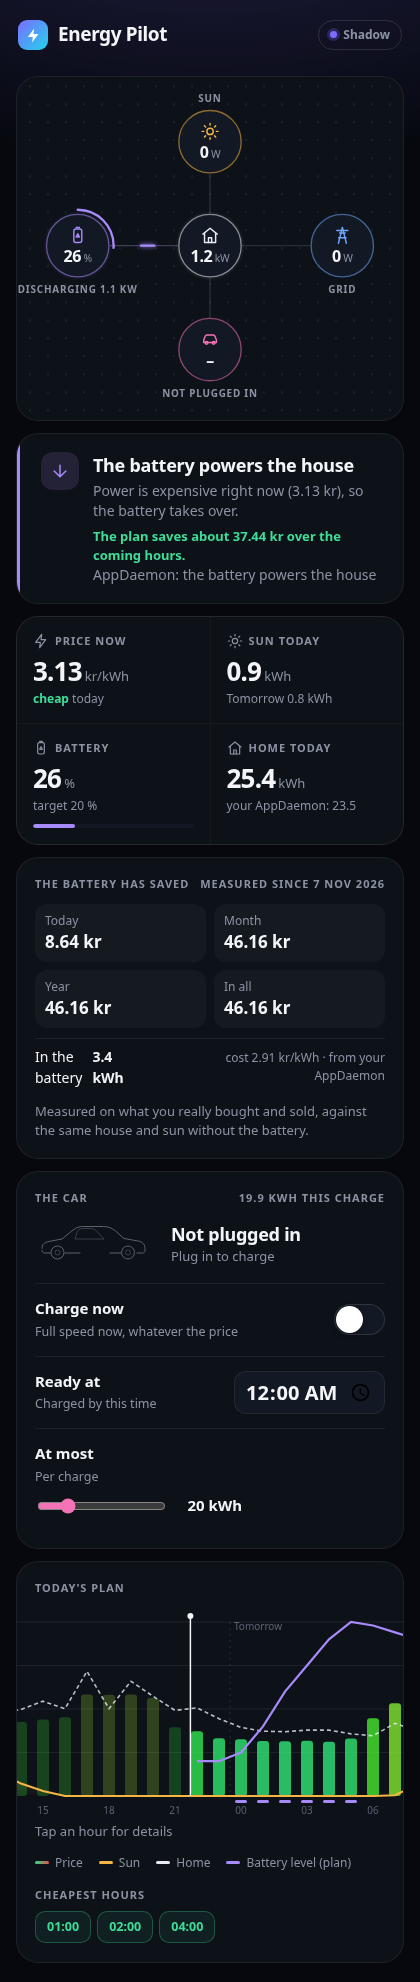
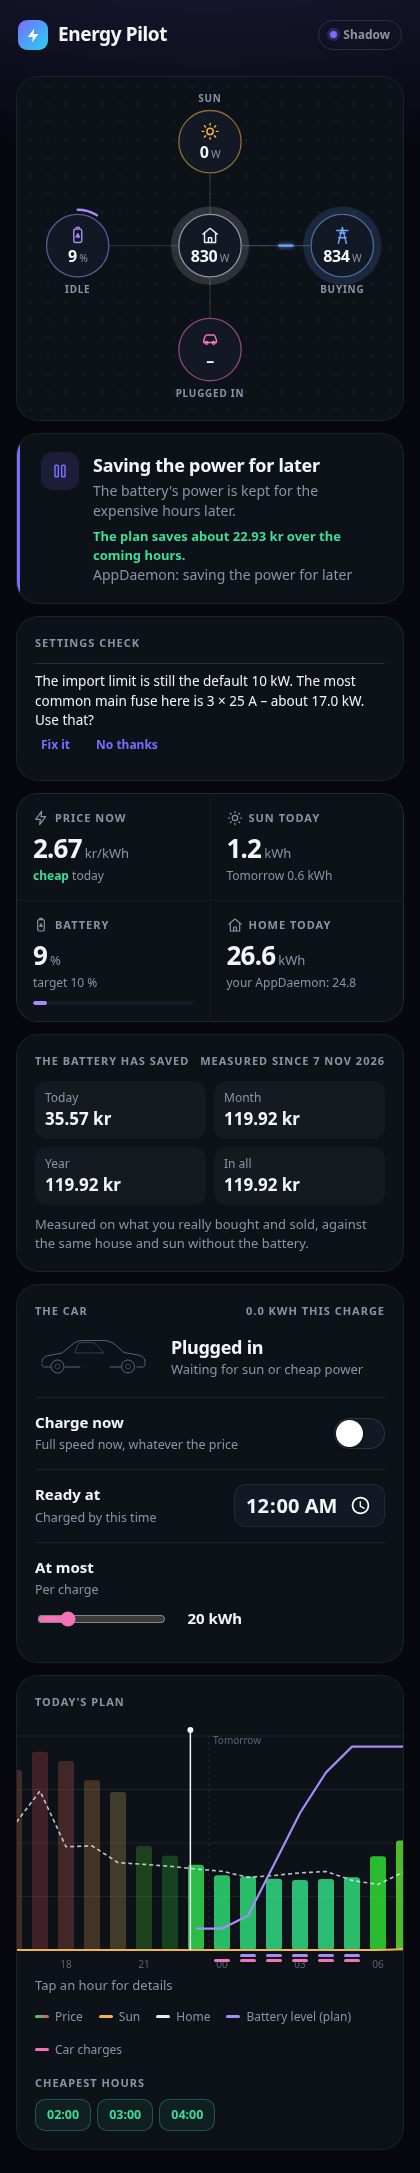
README: no house sensor needed, any solar forecast, feed-in by time with a daily cap, two car limits, control selects, settings kept in place; new screenshots

diff --git a/README.md b/README.md
@@ -74,14 +74,24 @@ The panel shows who decides right now and how well each one hits:
   charges to your target (80 % spares the battery) and stops there; **"100 % for the next trip"** fills it in the cheapest
   hours before you leave and turns itself off when the car leaves. The car's battery size is learned from the charges.
 - **The car is never counted twice** – if your house sensor includes the car, it notices from the hours the car charged
-  and takes it out, so the house forecast and the battery plan stay right.
+  and takes it out (every charger), so the house forecast and the battery plan stay right.
+- **Two limits for the car** – charge from the grid up to, say, 80 %, and let the sun's surplus fill it to 100 % for free.
+- **No house sensor needed** – without one, it works out the house's use from the history of your grid, solar,
+  battery and car meters, and learns your daily shape straight away.
+- **Any solar forecast** – Solcast, Open-Meteo Solar Forecast, or whatever is set up in Home Assistant's Energy
+  dashboard (Forecast.Solar and the rest). With none, it makes its own from the weather and your panels' history.
 - **Fits odd setups** – several solar arrays and forecasts are added up, it finds which way your battery's power number
   goes (Fox ESS counts discharging as positive), and a changing feed-in price (Amber, Octopus export, net-billing) can
-  come from a sensor. Can't find your sensor in a list? Search for any of them.
+  come from a sensor – or from your own tariff plan, with feed-in prices by time of day (e.g. 15c from 6–9pm) and a
+  daily cap on paid feed-in. Can't find your sensor in a list? Search for any of them.
 - **Runs your own system in shadow** – already have an energy setup in AppDaemon? Energy Pilot can run it unchanged next
   to its own engine and show how often they agree.
 - **Lives inside Home Assistant** – a sidebar panel, dashboard cards, and buttons and sensors (*Charge now*, *Ready at*,
-  *Saved today*, *Battery power cost* …) for your own automations.
+  *Saved today*, *Battery power cost* …) for your own automations. *Battery control* and *Car control* (Shadow /
+  Control / Off) let an automation switch Energy Pilot on and off.
+- **Keeps its settings in place** – a setting that goes back by itself (Victron puts its defaults back) is set again
+  at once, and if something else keeps changing the battery – Predbat, an automation – the self-check tells you, so
+  the two don't work against each other.
 - **Runs on a Raspberry Pi** – right next to Home Assistant, no cloud, no subscription. Even the ML models are trained
   at home, in a few seconds a night (about 180 MB RAM).
 - **No telemetry** – nothing about you or your home ever leaves your house.
@@ -108,7 +118,7 @@ The panel shows who decides right now and how well each one hits:
 
 | | |
 |---|---|
-| **Required** | Home Assistant, and a sensor for the house's power use (W) – most homes already have one |
+| **Required** | Home Assistant, and a sensor for the house's power use (W) – or grid and solar sensors, it works the house out from them |
 | **Prices** | Nothing – spot prices for 26 European countries are built in. Strømligning, Nord Pool, Tibber, Octopus, Amber, EDF Tempo and many more are used if you have them. No spot price (USA, UK…)? Enter your tariff plan or start from a template. |
 | **Optional** | Solar panels, a home battery, an EV charger – any of them, all of them, or none |
 
@@ -189,9 +199,17 @@ bliver bedre hver nat.** Den starter altid i *skygge*: den viser, hvad den ville
 - **Bilen følger solen** minut for minut og **passer på hovedsikringen**.
 - **Bilens eget batteri i %** findes fra bilens integration – lad til et mål (80 % skåner batteriet), eller tryk
   **"100 % til næste tur"** før en lang tur (slår selv fra, når bilen kører).
-- **Bilen tælles aldrig to gange**, og den kan køre din egen AppDaemon i skygge og sammenligne.
+- **Bilen tælles aldrig to gange** (alle ladere trækkes fra), og den kan køre din egen AppDaemon i skygge og sammenligne.
+- **To grænser for bilen:** lad fra nettet op til fx 80 %, og lad soloverskuddet fylde den op til 100 % gratis.
+- **Ingen husforbrug-sensor nødvendig:** uden en regner den husets forbrug ud fra historikken for net, sol, batteri og
+  bil – og lærer døgnets form med det samme.
+- **Enhver solprognose:** Solcast, Open-Meteo Solar Forecast eller det, der er sat op i Home Assistants Energi-panel
+  (Forecast.Solar m.fl.). Uden en laver den sin egen ud fra vejret og anlæggets historik.
 - **Passer til mange opsætninger:** flere solcelle-anlæg lægges sammen, den finder selv batteriets fortegn, og en
-  skiftende salgspris kan komme fra en sensor. Kan du ikke finde din sensor, kan du søge efter den.
+  skiftende salgspris kan komme fra en sensor – eller fra din egen tarifplan med salgspris efter tid på døgnet og en
+  daglig grænse for betalt salg. Kan du ikke finde din sensor, kan du søge efter den.
+- **Holder sine indstillinger på plads:** en indstilling, der går tilbage af sig selv (Victron), sættes igen med det
+  samme, og ændrer noget andet hele tiden batteriet – Predbat, en automation – siger selvtjekket til.
 - **Kører på en Raspberry Pi** ved siden af Home Assistant – ingen cloud, intet abonnement.
 - **Ingen telemetri** – intet forlader dit hjem.
 - **Også off-grid:** uden elnet styrer den generatoren – den starter, før batteriet når reserven, kører længe ad gangen
@@ -209,7 +227,8 @@ bliver bedre hver nat.** Den starter altid i *skygge*: den viser, hvad den ville
   tryk til at rette den. De sjældne indstillinger ligger under "Avanceret", og én knap henter en diagnosefil.
 - **Sensorer til dine egne dashboards og automationer:** beslutningen nu, prisen nu, batteriets mål, hvad batteriet har
   sparet, **næste opladning af batteriet**, **næste opladning af bilen**, **næste salg fra batteriet**, **billigste time**
-  (fx til opvaskeren), husets forbrug i dag og solprognosen for i dag og i morgen.
+  (fx til opvaskeren), husets forbrug i dag og solprognosen for i dag og i morgen. *Batteri-styring* og *Bil-styring*
+  (Skygge / Styrer / Fra) lader en automation slå Energipilot til og fra.
 - **7 sprog:** dansk, engelsk, tysk, fransk, hollandsk, svensk og norsk – følger Home Assistants sprog.
 - **Styrer mange mærker** – se tabellen ovenfor (✅ testet, 🧪 venter på en betatester).
 
